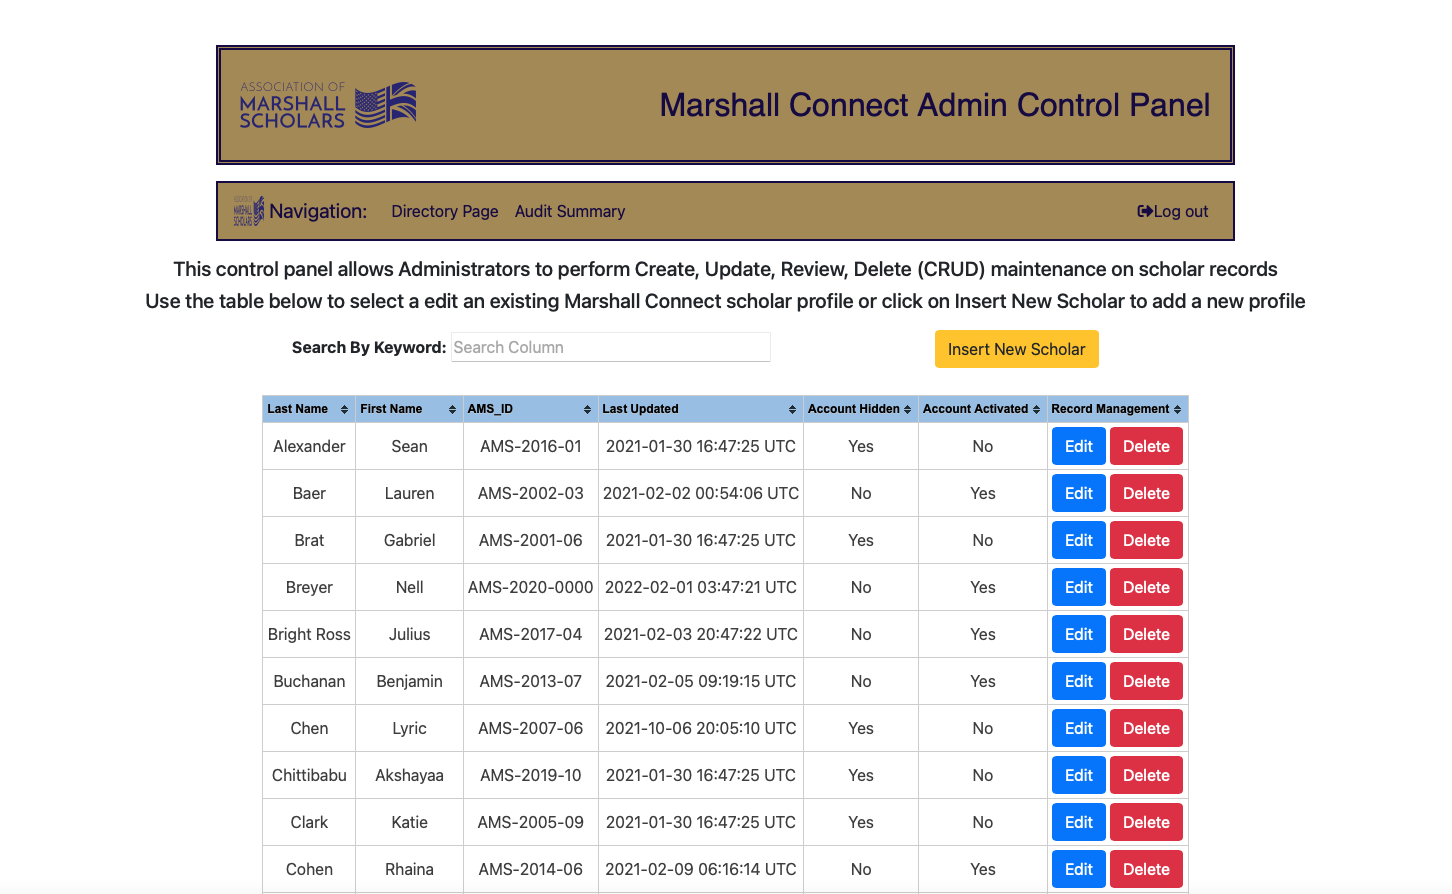
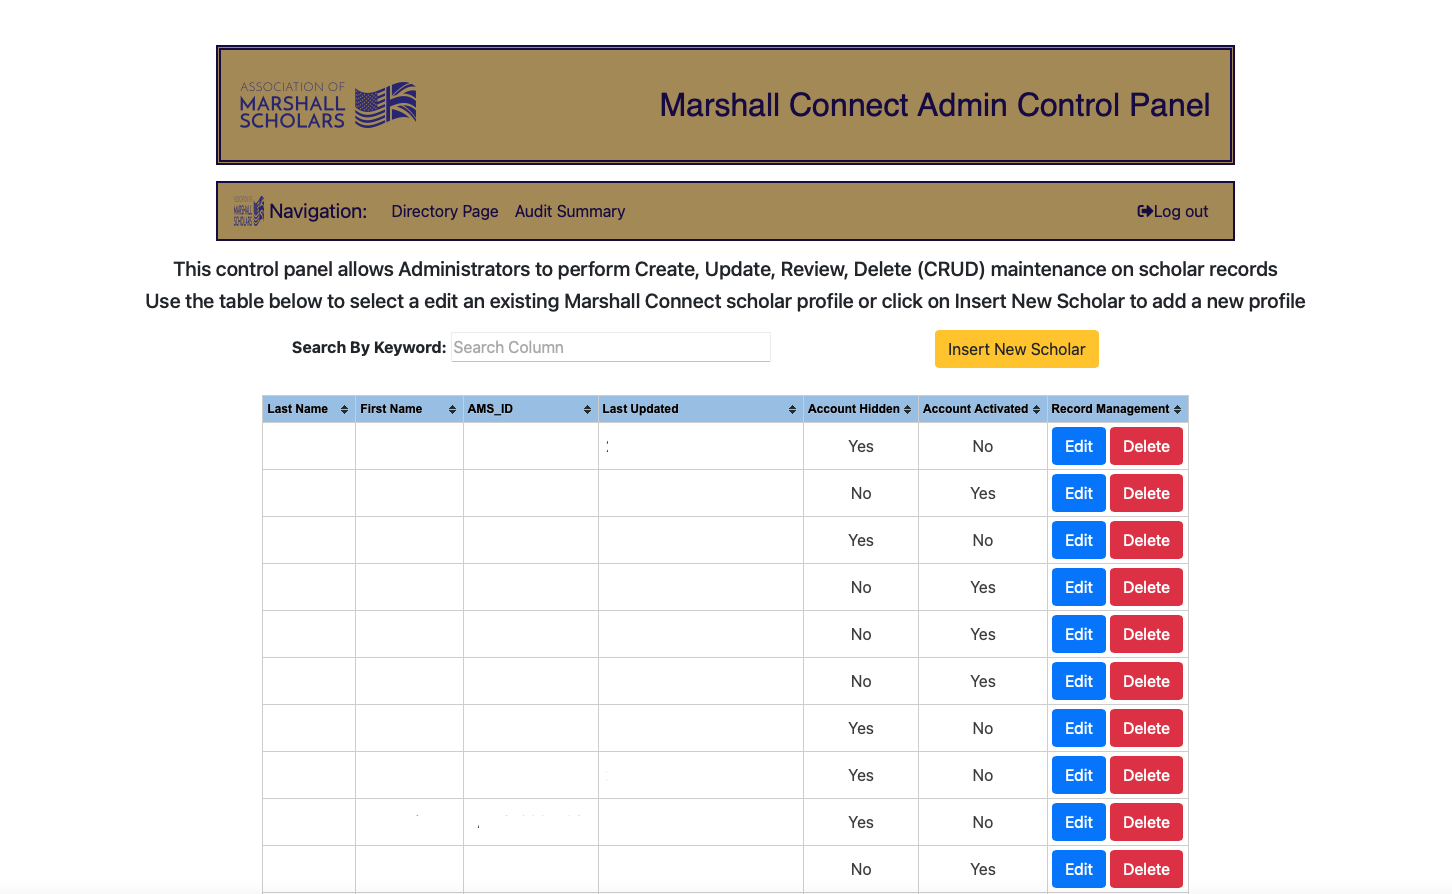
adding marshallconnect landing page

diff --git a/ams/marshall_landing.html b/ams/marshall_landing.html
@@ -1,0 +1,108 @@
+<html>
+
+  <head>
+    <meta charset="UTF-8">
+    <meta http-equiv="X-UA-Compatible" content="IE=edge">
+    <meta name="viewport" content="width=device-width, initial-scale=1">
+    <title>Marhsall Connect Project Images</title>
+    <link rel="stylesheet" href="../css/marshall_landing.css">
+
+  </head>
+
+
+  <body>
+    <div id="header" >
+      <h2>Marshall Connect Project</h2>
+      <h3>Site Images</h3>
+    </div>
+
+    <div id="container">
+
+      <div id="login">
+        <div id="login_img" class="left_side_img_div">
+          <img class="enlargingImgLeftSide otherImg" src="/images/portfolio/marshall_login.png" alt="Login Page Image">
+        </div>
+        <div id="login_page_text">
+          <h3>Login Page</h3>
+          <p>Highlights the Association's purpose of bringing U.S. and U.K. culture together while providing the standard security measures</p>
+        </div>
+      </div>
+
+      <div id="edit_profile" style="position:relative; width:100%; height:28rem;">
+        <div id="edit_profile_page_text">
+          <h3>Edit Profile Page</h3>
+          <p>Allows users to edit information in their profile. Tabs hide additional data entry forms. The clean design keeps the user from being overwhelm.
+        </div>
+        <div id="edit_profile_img" class="right_side_img_div">
+          <img class="enlargingImgRightSide otherImg" src="/images/portfolio/marshall_edit_profile.png" alt="Edit Profile Page Image">
+        </div>
+      </div>
+      <div id="primary_info" style="position:relative; width:100%; height:28rem;">
+        <div id="primary_info_page_text">
+          <h3>Primary Profile Information Section</h3>
+          <p>Allows users to edit what's considered primary information in their profile. Notice the expanded institution information box. The collapsible box hides information in plain sight. A similar approach is taken in for the degree information boxes. The goal was to display only the basic information. The user can then choose to display any other information.
+        </div>
+        <div id="primary_info_img" class="right_side_img_div">
+          <img class="enlargingImgRightSide otherImg" src="/images/portfolio/marshall_primary_info.png" alt="Primary Info Entry Section">
+        </div>
+      </div>
+      <div id="admin_panel" style="position:relative; width:100%; height:28rem;">
+        <div id="admin_panel_img" class="left_side_img_div">
+          <img class="enlargingImgLeftSide adminPanelImg" src="/images/portfolio/marshall_admin.png" alt="Admin Panel Image">
+        </div>
+        <div id="admin_panel_text">
+          <h3>Admin Control Panel Page</h3>
+          <p>Simple interface to perform CRUD activities on profiles (names blacked out for privacy)</p>
+        </div>
+      </div>
+    </div>
+
+    <div id="footer"></div>
+
+
+    <script>
+
+      //Code to increase image size
+      var selectionRightSide = document.querySelectorAll(".enlargingImgRightSide");
+      var selectionLeftSide = document.querySelectorAll(".enlargingImgLeftSide");
+
+      selectionRightSide.forEach(rigthElement => {
+        rigthElement.addEventListener("mouseover", function(){
+          rigthElement.style.transform = "scale(1.75) translate(-10rem)";
+          rigthElement.style.transition = "transform 0.25 ease";
+
+        });
+
+        rigthElement.addEventListener("mouseout", function(){
+
+          rigthElement.style.transform = "scale(1.0)";
+          rigthElement.style.transition = "transform 0.25 ease";
+
+        });
+
+      });
+
+      selectionLeftSide.forEach(leftElement => {
+        leftElement.addEventListener("mouseover", function(){
+          leftElement.style.transform = "scale(1.75) translate(10rem)";
+          leftElement.style.zIndex = 10;
+          leftElement.style.position = "relative";
+          leftElement.style.transition = "transform 0.25 ease";
+
+        });
+
+        leftElement.addEventListener("mouseout", function(){
+
+          leftElement.style.transform = "scale(1.0)";
+          leftElement.style.zIndex = 1;
+          //leftElement.style.position = "static";
+          leftElement.style.transition = "transform 0.25 ease";
+
+        });
+      });
+
+    </script>
+
+  </body>
+
+</html>

diff --git a/css/marshall_landing.css b/css/marshall_landing.css
@@ -1,0 +1,172 @@
+/*
+=====================================================================
+*   Marhsall_Landing Stylesheet
+*
+*   02-05-2022
+=====================================================================
+
+   TOC:
+   a. General Styles
+   b. Header Styles
+   c. Container Styles
+   d. Left Side Image Divs
+   e. Right Side Image Divs
+   f. Other img Elements
+   g. Admin Panel Image Element
+   h. Login Section Text
+   i. Edit Profile Section Text
+   j. Primary Info Section Text
+   k. Admin Panel Section Text
+
+===================================================================== */
+
+/* ------------------------------------------------------------------ */
+/* a. General Styles
+/* ------------------------------------------------------------------ */
+
+body
+{
+  background-color: #2B2B2B;
+  font-family: 'Bangla MN';
+}
+
+/* ------------------------------------------------------------------ */
+/* b. Header Styles
+/* ------------------------------------------------------------------ */
+
+#header
+{
+  width:100%;
+  margin: 0 auto;
+  text-align: center;
+  background-color: #cfb072;
+}
+
+/* ------------------------------------------------------------------ */
+/* c. Container Styles
+/* ------------------------------------------------------------------ */
+
+#container
+{
+  width: 90%;
+  margin: 0 auto;
+}
+
+/* ------------------------------------------------------------------ */
+/* d. Left Side Image Divs
+/* ------------------------------------------------------------------ */
+
+.left_side_img_div
+{
+  width: 47%;
+  margin: 1rem;
+  object-fit: fill;
+  display:inline-block;
+}
+
+/* ------------------------------------------------------------------ */
+/* e. Right Side Image Divs
+/* ------------------------------------------------------------------ */
+
+.right_side_img_div
+{
+  width: 47%;
+  object-fit: fill;
+  display:inline-block;
+  float:right;
+  margin: 1rem;
+}
+
+/* ------------------------------------------------------------------ */
+/* f. Other img Element
+/* ------------------------------------------------------------------ */
+
+.otherImg
+{
+  width: 98%;
+  object-fit: fill;
+  margin: 1rem;
+}
+
+/* ------------------------------------------------------------------ */
+/* g. Admin Panel img Element
+/* ------------------------------------------------------------------ */
+
+.adminPanelImg
+{
+  width: 98%;
+  object-fit: fill;
+  margin: 1rem;
+  background-color: black;
+}
+
+/* ------------------------------------------------------------------ */
+/* h. Login Section Text
+/* ------------------------------------------------------------------ */
+
+#login_page_text
+{
+  width: 47%;
+  object-fit: fill;
+  display: inline-block;
+  color: #fff;
+  position: relative;
+  top: -4rem;
+  margin: 1rem;
+}
+
+/* ------------------------------------------------------------------ */
+/* i. Edit Profile Section Text
+/* ------------------------------------------------------------------ */
+
+#edit_profile_page_text
+{
+  width: 47%;
+  object-fit: fill;
+  display:inline-block;
+  position: relative;
+  top: 12rem;
+  color: #fff;
+  margin: 1rem;
+  text-align: right;
+}
+
+/* ------------------------------------------------------------------ */
+/* j. Primary Info Section Text
+/* ------------------------------------------------------------------ */
+
+#primary_info_page_text
+{
+  width: 47%;
+  object-fit: fill;
+  display:inline-block;
+  position: relative;
+  top: 5rem;
+  color: #fff;
+  margin: 1rem;
+  text-align: right;
+}
+
+/* ------------------------------------------------------------------ */
+/* k. Admin Panel Section Text
+/* ------------------------------------------------------------------ */
+
+#admin_panel_text
+{
+  width: 47%;
+  object-fit: fill;
+  display: inline-block;
+  color: #fff;
+  position:
+  relative; top: -4rem;
+  margin: 1rem;
+}
+
+/* ------------------------------------------------------------------ */
+/* l. Footer
+/* ------------------------------------------------------------------ */
+
+#footer
+{
+  margin-bottom:2rem;
+}

diff --git a/index.html b/index.html
@@ -641,8 +641,8 @@
 		      </div>
 
             <div class="link-box">
-              <a href="images/portfolio/marshall_login.png" target="_blank">Full Image</a>
-               <!-- <a href="https://github.com/LGarcia6280/LGarcia6280.github.io.git/images/portfolio/waves.jpg" target="_blank">Details</a> -->
+              <!--<a href="images/portfolio/marshall_login.png" target="_blank">Full Image</a>-->
+               <a href="https://github.com/LGarcia6280/LGarcia6280.github.io.git/ams/marshall_landing.php" target="_blank">Additional Images</a>
 		         <a class="popup-modal-dismiss">Close</a>
             </div>
 
